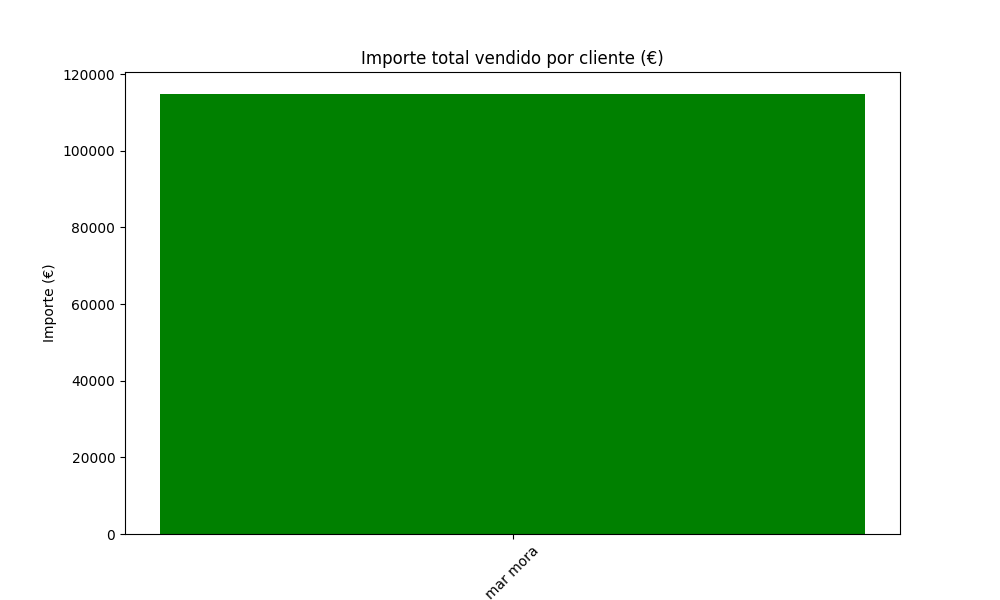
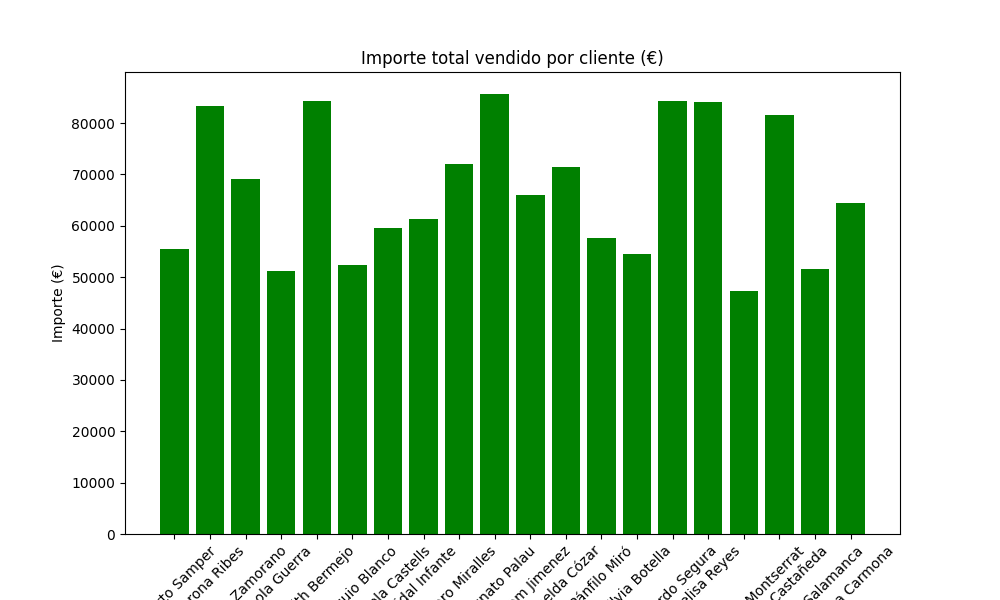
Se implemente la factoría y los logs. Se prueba el programa y funciona correctamente.

diff --git a/main.py b/main.py
@@ -1,5 +1,6 @@
-from datetime import date, datetime
-
+from datetime import datetime
+from db.factory.factory import cargar_datos_iniciales
+from log.log import registrar
 from services.services import UsuarioService, TasacionService, VentaService
 from gestion.gestion import Gestion, Graficos
 
@@ -17,6 +18,8 @@ def menu():
         print("0. Salir")
 
         opcion = input("Selecciona una opción: ")
+
+        registrar(f"El usuario seleccionó la opción {opcion} en el menú principal")
 
         if opcion == "1":
             menu_usuarios()
@@ -43,10 +46,12 @@ def menu_usuarios ():
         print("4. Dar de baja usuario")
         print("0. Volver")
 
-        opc = input("Dime qué quieres hacer: ")
+        opcion = input("Dime qué quieres hacer: ")
+
+        registrar(f"Entró en menú usuarios y seleccionó {opcion}")
 
         #1. Crear un nuevo usuario
-        if opc == "1":
+        if opcion == "1":
             try:
                 nombre = input("Nombre: ")
                 apellidos = input("Apellidos: ")
@@ -71,14 +76,14 @@ def menu_usuarios ():
 
 
         #2. Listar todos los usuarios
-        elif opc == "2":
+        elif opcion == "2":
             usuarios = UsuarioService.listar_usuarios()
             print("\nUsuario: \n")
             for usuario in usuarios:
                 print(f"Nombre: {usuario.nombre}, Apellidos: {usuario.apellidos}, DNI: {usuario.dni}\n")
 
         #3. Buscar usuario por DNI
-        elif opc == "3":
+        elif opcion == "3":
             dni = input("Introduce el DNI del usuario: ")
             usuario = UsuarioService.buscar_por_dni(dni)
 
@@ -88,7 +93,7 @@ def menu_usuarios ():
                 print("No existe un usuario con ese DNI, por favor, introduce uno válido.")
 
         #4. Dar de baja usuario
-        elif opc == "4":
+        elif opcion == "4":
             dni = input("Introduce el dni del usuario a dar de baja: ")
             usuario = UsuarioService.dar_baja(dni)
 
@@ -97,7 +102,7 @@ def menu_usuarios ():
             else:
                 print(f"No existe un usuario con ese DNI.")
 
-        elif opc == 0:
+        elif opcion == 0:
             print("Volviendo al menú principal...")
             break
 
@@ -114,6 +119,8 @@ def menu_tasaciones():
         print("0. Volver")
 
         opcion = int(input("Selecciona una opción: "))
+
+        registrar(f"Entró en menú tasaciones y seleccionó {opcion}")
 
         #1. Crear tasación
         if opcion == 1:
@@ -178,6 +185,8 @@ def menu_ventas():
 
         opcion = input("Selecciona una opción: ")
 
+        registrar(f"Entró en menú ventas y seleccionó {opcion}")
+
         #1. Aceptar tasación
         if opcion == "1":
             try:
@@ -226,21 +235,23 @@ def menu_estadisticas():
         print("6. Clientes sin ventas en 3 meses")
         print("0. Volver")
 
-        opc = input("Opción: ")
+        opcion = input("Opción: ")
 
-        if opc == "1":
+        registrar(f"Entró en menú usuarios y seleccionó {opcion}")
+
+        if opcion == "1":
             TasacionService.obtener_estadisticas_tasaciones()
-        elif opc == "2":
+        elif opcion == "2":
             Gestion.ventas_por_mes()
-        elif opc == "3":
+        elif opcion == "3":
             Gestion.ventas_por_cliente()
-        elif opc == "4":
+        elif opcion == "4":
             Gestion.tasaciones_no_aceptadas()
-        elif opc == "5":
+        elif opcion == "5":
             Gestion.cliente_con_mas_ventas()
-        elif opc == "6":
+        elif opcion == "6":
             Gestion.clientes_inactivos_3_meses()
-        elif opc == "0":
+        elif opcion == "0":
             break
         else:
             print("Opción no válida.")
@@ -250,14 +261,17 @@ def menu_graficos():
         print("\n--- Menú de Gráficos ---")
         print("1. Oro vendido por cliente (gramos)")
         print("2. Importe total vendido por cliente (€)")
-        print("3. Tasaciones por estado (pie chart)")
+        print("3. Tasaciones por estado")
         print("4. Ventas por mes")
         print("0. Volver")
 
         opcion = input("Selecciona una opción: ")
 
+        registrar(f"Entró en menú usuarios y seleccionó {opcion}")
+
         if opcion == "1":
             Graficos.oro_por_cliente()
+            input("\nPulsa ENTER para volver al menú...")
 
         elif opcion == "2":
             Graficos.importe_por_cliente()
@@ -276,4 +290,5 @@ def menu_graficos():
 
 
 if __name__ == '__main__':
+    cargar_datos_iniciales()
     menu()

diff --git a/db/factory/factory.py b/db/factory/factory.py
@@ -1,1 +1,152 @@
-#factoría
+import configparser
+import os
+
+from faker import Faker
+from db.config import session
+from db.models.models import Usuario, Tasacion, Venta, Estado
+from datetime import datetime, timedelta
+import random
+
+def bd_vacia():
+    #Devolvemos True si no existe ningún usuario en la BD.
+    return session.query(Usuario).count() == 0
+
+fake = Faker("es_ES")
+
+#Creamos 20 usuarios
+def crear_usuarios(n=20):
+    usuarios = []
+
+    for _ in range(n):
+        u = Usuario(
+            nombre=fake.first_name(),
+            apellidos=fake.last_name(),
+            fecha_nac=fake.date_of_birth(minimum_age=18, maximum_age=90),
+            dni=fake.unique.random_number(digits=8).__str__() + fake.random_letter().upper(),
+            email=fake.email(),
+            nacionalidad=fake.country(),
+            telefono=fake.phone_number(),
+            direccion=fake.address(),
+            activo=True
+        )
+        usuarios.append(u)
+        session.add(u)
+
+    session.commit()
+    return usuarios
+
+#Creamos:
+    #- 400 tasaciones aceptadas → generan venta
+    #- 30 tasaciones rechazadas → generan venta con estado RECHAZADA
+    #- 20 tasaciones pendientes → no generan venta
+def crear_tasaciones_y_ventas(usuarios):
+
+    estado_aceptada = session.query(Estado).filter_by(descripcion="ACEPTADA").first()
+    estado_rechazada = session.query(Estado).filter_by(descripcion="RECHAZADA").first()
+    estado_tasacion = session.query(Estado).filter_by(descripcion="TASACION").first()
+
+    hoy = datetime.now()
+    inicio=datetime(2025, 1, 1)
+    dias_totales = (hoy - inicio).days
+
+    #Creamos tasaciones aceptadas
+    for _ in range(400):
+        usuario = random.choice(usuarios)
+
+        fecha = inicio + timedelta(days=random.randint(0, dias_totales))
+        valor = 113000 * (1 + random.uniform(-0.03, 0.03))
+        peso = random.uniform(1, 50)
+        importe = valor * (peso / 1000)
+
+        t = Tasacion(
+            usuario_id=usuario.id,
+            fecha=fecha,
+            peso_gramos=peso,
+            valor=valor,
+            importe=importe
+        )
+        session.add(t)
+        session.commit()
+
+        v = Venta(
+            usuario_id=usuario.id,
+            estado_id=estado_aceptada.id,
+            precio=importe,
+            id_tasacion=t.id,
+            gramos=peso
+        )
+        session.add(v)
+        session.commit()
+
+    #2. Creamos tasaciones rechazadas
+    for _ in range(30):
+        usuario = random.choice(usuarios)
+
+        fecha = inicio + timedelta(days=random.randint(0, dias_totales))
+        valor = 113000 * (1 + random.uniform(-0.03, 0.03))
+        peso = random.uniform(1, 40)
+        importe = valor * (peso / 1000)
+
+        t = Tasacion(
+            usuario_id=usuario.id,
+            fecha=fecha,
+            peso_gramos=peso,
+            valor=valor,
+            importe=importe
+        )
+        session.add(t)
+        session.commit()
+
+        v = Venta(
+            usuario_id=usuario.id,
+            estado_id=estado_rechazada.id,
+            precio=importe,
+            id_tasacion=t.id,
+            gramos=peso
+        )
+        session.add(v)
+        session.commit()
+
+    #3. Creamos tasaciones pendientes (sin venta)
+    for _ in range(20):
+        usuario = random.choice(usuarios)
+
+        fecha = inicio + timedelta(days=random.randint(0, dias_totales))
+        valor = 113000 * (1 + random.uniform(-0.03, 0.03))
+        peso = random.uniform(1, 60)
+        importe = valor * (peso / 1000)
+
+        t = Tasacion(
+            usuario_id=usuario.id,
+            fecha=fecha,
+            peso_gramos=peso,
+            valor=valor,
+            importe=importe
+        )
+        session.add(t)
+        session.commit()
+
+        # Venta pendiente (estado TASACIÓN)
+        v = Venta(
+            usuario_id=usuario.id,
+            estado_id=estado_tasacion.id,
+            precio=importe,
+            id_tasacion=t.id,
+            gramos=peso
+        )
+        session.add(v)
+        session.commit()
+
+
+def cargar_datos_iniciales():
+    #Cargamos la factoría completa si la BD está vacía.
+    if not bd_vacia():
+        print("BD con datos: Factoría no ejecutada.")
+        return
+
+    print("BD vacía: Generando datos iniciales...")
+
+    usuarios = crear_usuarios()
+    crear_tasaciones_y_ventas(usuarios)
+
+    print("Factoría completada.")

diff --git a/gestion/gestion.py b/gestion/gestion.py
@@ -5,6 +5,7 @@ from db.config import session
 from db.models.models import Venta, Usuario, Tasacion, Estado
 
 
+
 class Gestion:
     @staticmethod
     def ventas_por_mes():
@@ -22,13 +23,8 @@ class Gestion:
         else:
             fin = fecha.replace(month=fecha.month + 1, day=1)
 
-        ventas = (
-            session.query(Venta)
-            .join(Tasacion, Venta.id_tasacion == Tasacion.id)
-            .filter(Tasacion.fecha >= inicio)
-            .filter(Tasacion.fecha < fin)
-            .all()
-        )
+        ventas = (session.query(Venta).join(Tasacion, Venta.id_tasacion == Tasacion.id).filter(Tasacion.fecha >= inicio)
+                  .filter(Tasacion.fecha < fin).all())
 
         if ventas:
             print(f"\nVentas del mes {mes}:")
@@ -171,6 +167,7 @@ class Graficos:
         print(f"Gráfico guardado en: {ruta}")
 
         plt.show()
+        plt.close()
 
     @staticmethod
     def importe_por_cliente():
@@ -205,6 +202,7 @@ class Graficos:
         print(f"Gráfico guardado en: {ruta}")
 
         plt.show()
+        plt.close()
 
     @staticmethod
     def tasaciones_por_estado():
@@ -212,6 +210,7 @@ class Graficos:
         tasaciones_ids = [t.id for t in session.query(Tasacion).all()]
         ventas_ids = [v.id_tasacion for v in session.query(Venta).all()]
 
+        #Contamos las tasaciones que no tienen una venta asociada
         pendientes = len([t_id for t_id in tasaciones_ids if t_id not in ventas_ids])
 
         aceptadas = session.query(Venta).filter_by(estado_id=2).count()
@@ -230,14 +229,11 @@ class Graficos:
         print(f"Gráfico guardado en: {ruta}")
 
         plt.show()
+        plt.close()
 
     @staticmethod
     def ventas_por_mes():
-        ventas = (
-            session.query(Venta)
-            .join(Tasacion, Venta.id_tasacion == Tasacion.id)
-            .all()
-        )
+        ventas = (session.query(Venta).join(Tasacion, Venta.id_tasacion == Tasacion.id).all())
 
         if not ventas:
             print("No hay ventas registradas.")
@@ -253,7 +249,7 @@ class Graficos:
                 conteo_mensual[mes] = 0
             conteo_mensual[mes] += 1
 
-        meses = list(conteo_mensual.keys())
+        meses = sorted(list(conteo_mensual.keys()))
         cantidades = list(conteo_mensual.values())
 
         plt.figure(figsize=(10, 6))
@@ -268,3 +264,4 @@ class Graficos:
         print(f"Gráfico guardado en: {ruta}")
 
         plt.show()
+        plt.close()

diff --git a/log/log.py b/log/log.py
@@ -1,1 +1,10 @@
-pass
+import logging
+
+logging.basicConfig(
+    filename="actividad.log",
+    level=logging.INFO,
+    format="%(asctime)s - %(message)s"
+)
+
+def registrar(mensaje):
+    logging.info(mensaje)
